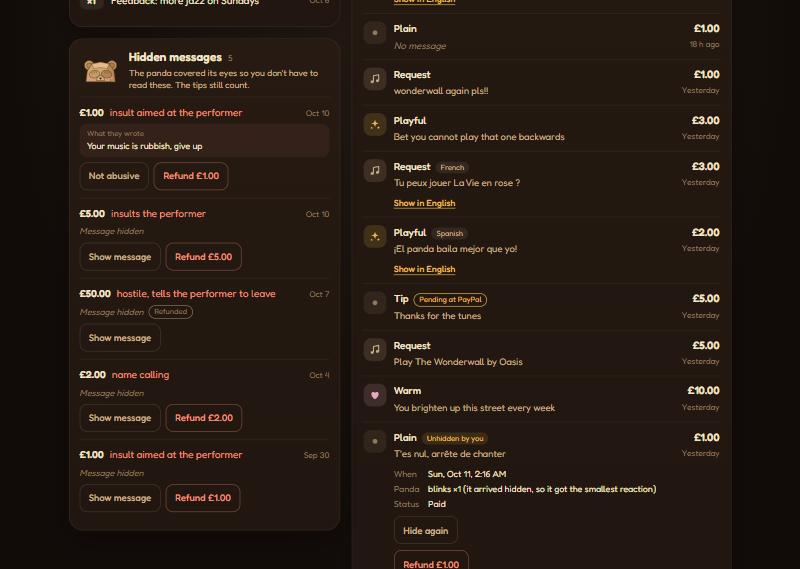
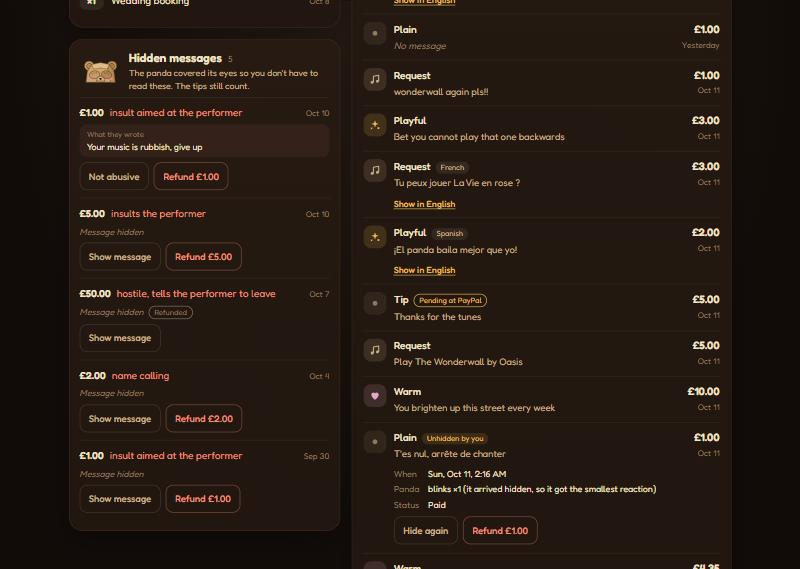
Put Hide again beside the refund in a tip's detail
owner.js and owner.css:
- A hidden or unhidden tip's detail puts its moderation controls and the refund in one wrapping row, as the hidden panel does

docs:
- CODEBASE.md says so; the 06c detail screenshots at 390 and 1280 are retaken

diff --git a/src/main/resources/static/js/owner.js b/src/main/resources/static/js/owner.js
@@ -587,11 +587,16 @@
             note.append(make("small", null, "AI note from the message"), document.createTextNode(view.ownerNote));
             detail.append(note);
         }
-        if (view.flagged || view.unhidden) {
-            detail.append(moderationSlot(view));
-        }
         const refund = refundSlot(view);
-        if (refund) {
+        if (view.flagged || view.unhidden) {
+            // Side by side with the refund, as in the hidden panel.
+            const actions = make("div", "actions");
+            actions.append(moderationSlot(view));
+            if (refund) {
+                actions.append(refund);
+            }
+            detail.append(actions);
+        } else if (refund) {
             detail.append(refund);
         }
     }

diff --git a/src/main/resources/static/css/owner.css b/src/main/resources/static/css/owner.css
@@ -692,6 +692,13 @@ button {
     color: var(--faint);
 }
 
+.detail .actions {
+    display: flex;
+    gap: 8px;
+    align-items: center;
+    flex-wrap: wrap;
+}
+
 .flagged .row2 {
     margin-top: 8px;
     display: flex;

diff --git a/CODEBASE.md b/CODEBASE.md
@@ -135,7 +135,7 @@ Fonts: `static/fonts/fonts.css` holds the `@font-face` rules for self hosted Fre
 
 - Load: `/api/owner/me` (display name and the time zone every time is formatted in), then `/devices`, then `/today`, `/digest`, `/requests`, `/tips?flagged=true&size=5` (the hidden messages panel) and `/tips?size=20`; a failed load shows a note with Try again for the parts that failed. Any 401 sends the browser to `/owner/login`.
 - Order: today's numbers, then the tip list, then the notes, requests and hidden messages on a phone (the DOM order); on a laptop the tip list is placed in the right column beside them.
-- Panels: today's totals per currency with `Intl.NumberFormat` from `amountMinor` (a zero total in the first device's currency from `/api/public/devices/{slug}`, or "No tips yet today" without one), tips and requests, the busiest hour card (bar heights set with `style.setProperty("--h")`, the busiest bar gold, hidden without `busiestHour`); the panda's notes on the ruled kraft card (one `--rule` for line height and ruling, text on the lines), or the waiting line without the peeking panda (`no-notes`) when the digest is `null`, or the card with the peeking panda and "The panda is rewriting its notes." on `{status: "rewriting"}`; the requests panel (top song, groups newest first); hidden messages with their reason, never their text unless the owner asks: "Show message" fetches `/message` and shows it as text in memory only, then "Not abusive" puts `{hidden: false}`; a row unhidden in this tab stays in the panel, saying so, with "Hide again", until a reload; the count follows the hidden state; the tip list with filter chips (`All`, kinds with `flagged=false`, `Hidden` with `flagged=true`; a change reloads page 0), "Show older tips" paging, a row per tip (kind, a language tag unless English, status badge, amount, message, time) that opens to its time, what the panda played, status, the AI's owner note and a refund for `CAPTURED` tips, and "Show in English" for a translation; a hidden tip's detail has "Show message" and "Not abusive" too, an unhidden tip carries an "Unhidden by you" tag and its detail "Hide again". Reveal and verdict update in place with focus kept, a working state with `aria-disabled` and the refund's error pattern with Try again; a 404 refetches the tip and the panel. A tip that now matches the filter but is older than the top of the list goes in its place among the loaded ones, without the arrive animation or the toast; a focused row that leaves the filter hands focus to the pressed chip.
+- Panels: today's totals per currency with `Intl.NumberFormat` from `amountMinor` (a zero total in the first device's currency from `/api/public/devices/{slug}`, or "No tips yet today" without one), tips and requests, the busiest hour card (bar heights set with `style.setProperty("--h")`, the busiest bar gold, hidden without `busiestHour`); the panda's notes on the ruled kraft card (one `--rule` for line height and ruling, text on the lines), or the waiting line without the peeking panda (`no-notes`) when the digest is `null`, or the card with the peeking panda and "The panda is rewriting its notes." on `{status: "rewriting"}`; the requests panel (top song, groups newest first); hidden messages with their reason, never their text unless the owner asks: "Show message" fetches `/message` and shows it as text in memory only, then "Not abusive" puts `{hidden: false}`; a row unhidden in this tab stays in the panel, saying so, with "Hide again", until a reload; the count follows the hidden state; the tip list with filter chips (`All`, kinds with `flagged=false`, `Hidden` with `flagged=true`; a change reloads page 0), "Show older tips" paging, a row per tip (kind, a language tag unless English, status badge, amount, message, time) that opens to its time, what the panda played, status, the AI's owner note and a refund for `CAPTURED` tips, and "Show in English" for a translation; a hidden tip's detail has "Show message" and "Not abusive" too, an unhidden tip carries an "Unhidden by you" tag and its detail "Hide again"; in a detail these controls sit beside the refund, as in the hidden panel. Reveal and verdict update in place with focus kept, a working state with `aria-disabled` and the refund's error pattern with Try again; a 404 refetches the tip and the panel. A tip that now matches the filter but is older than the top of the list goes in its place among the loaded ones, without the arrive animation or the toast; a focused row that leaves the filter hands focus to the pressed chip.
 - Refund: button, inline confirm, working state (`aria-disabled`, so focus stays on the button), one request per click with the CSRF header; 200 refunded, 202 waiting for PayPal, 409 or 404 no longer refundable, anything else an error with Try again; the tip and today are refetched after every outcome.
 - Live: `/ws/owner` opens after the first load; `tip` refetches that tip (a newer one matching the filter goes on top with the arrive animation and the toast, a known one updates in place, a 404 removes it), `today`, `digest` (and requests) refetch, `device` updates the status line. `closing` `signed_out` or `session_expired` goes to the login page; `replaced` shows a note and waits for the tab to be focused or visible again. Reconnects use the client policy (1 s doubling to 60 s, up to 20 % off, reset after 60 s connected); while disconnected `/today` and page 0 are refetched every 30 s. Each refetch is coalesced: one in flight per kind (per tip for tips), with at most one more queued.
 - Times: every date format comes from `ownerTime`, the browser's locale with the time zone from `/me`, and the busiest hour uses the server's local `hour`, so they all agree. Relative times (`just now`, `8 min ago`, `2 h ago`, `Yesterday`, a short date) are recomputed every 30 s. `prefers-reduced-motion` turns off the arrive animation, the blinks and the toast slide.
